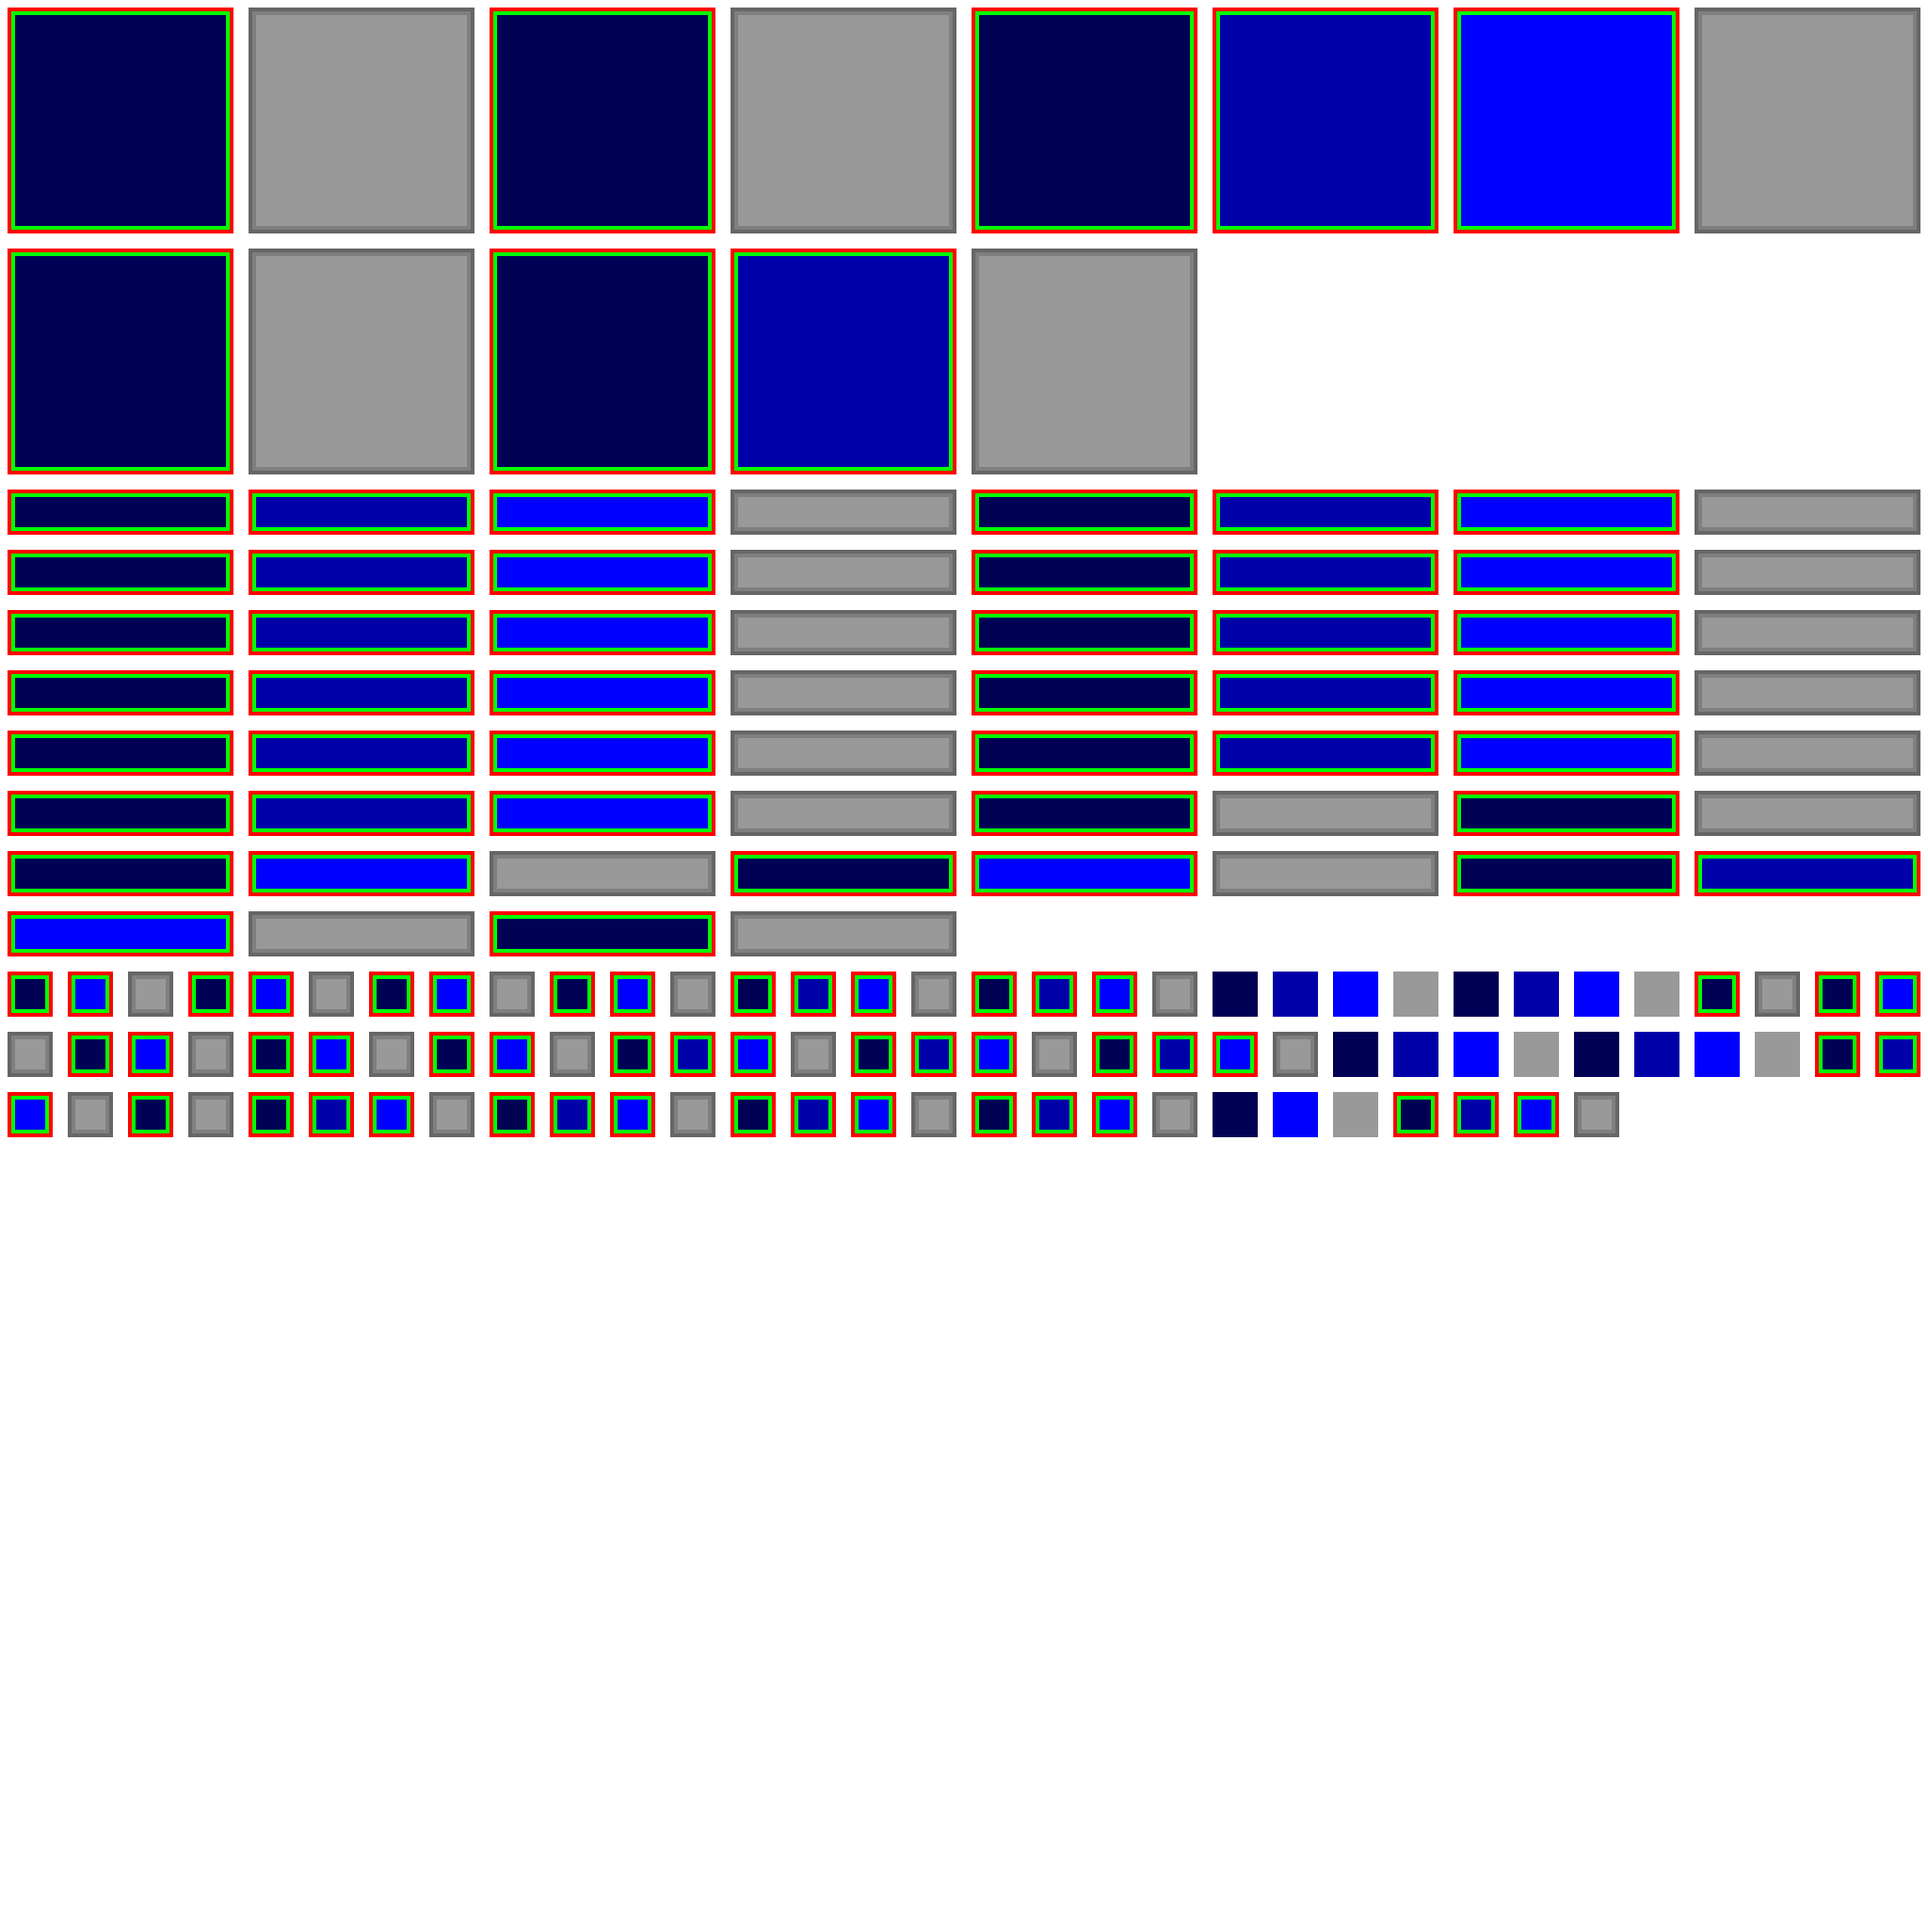
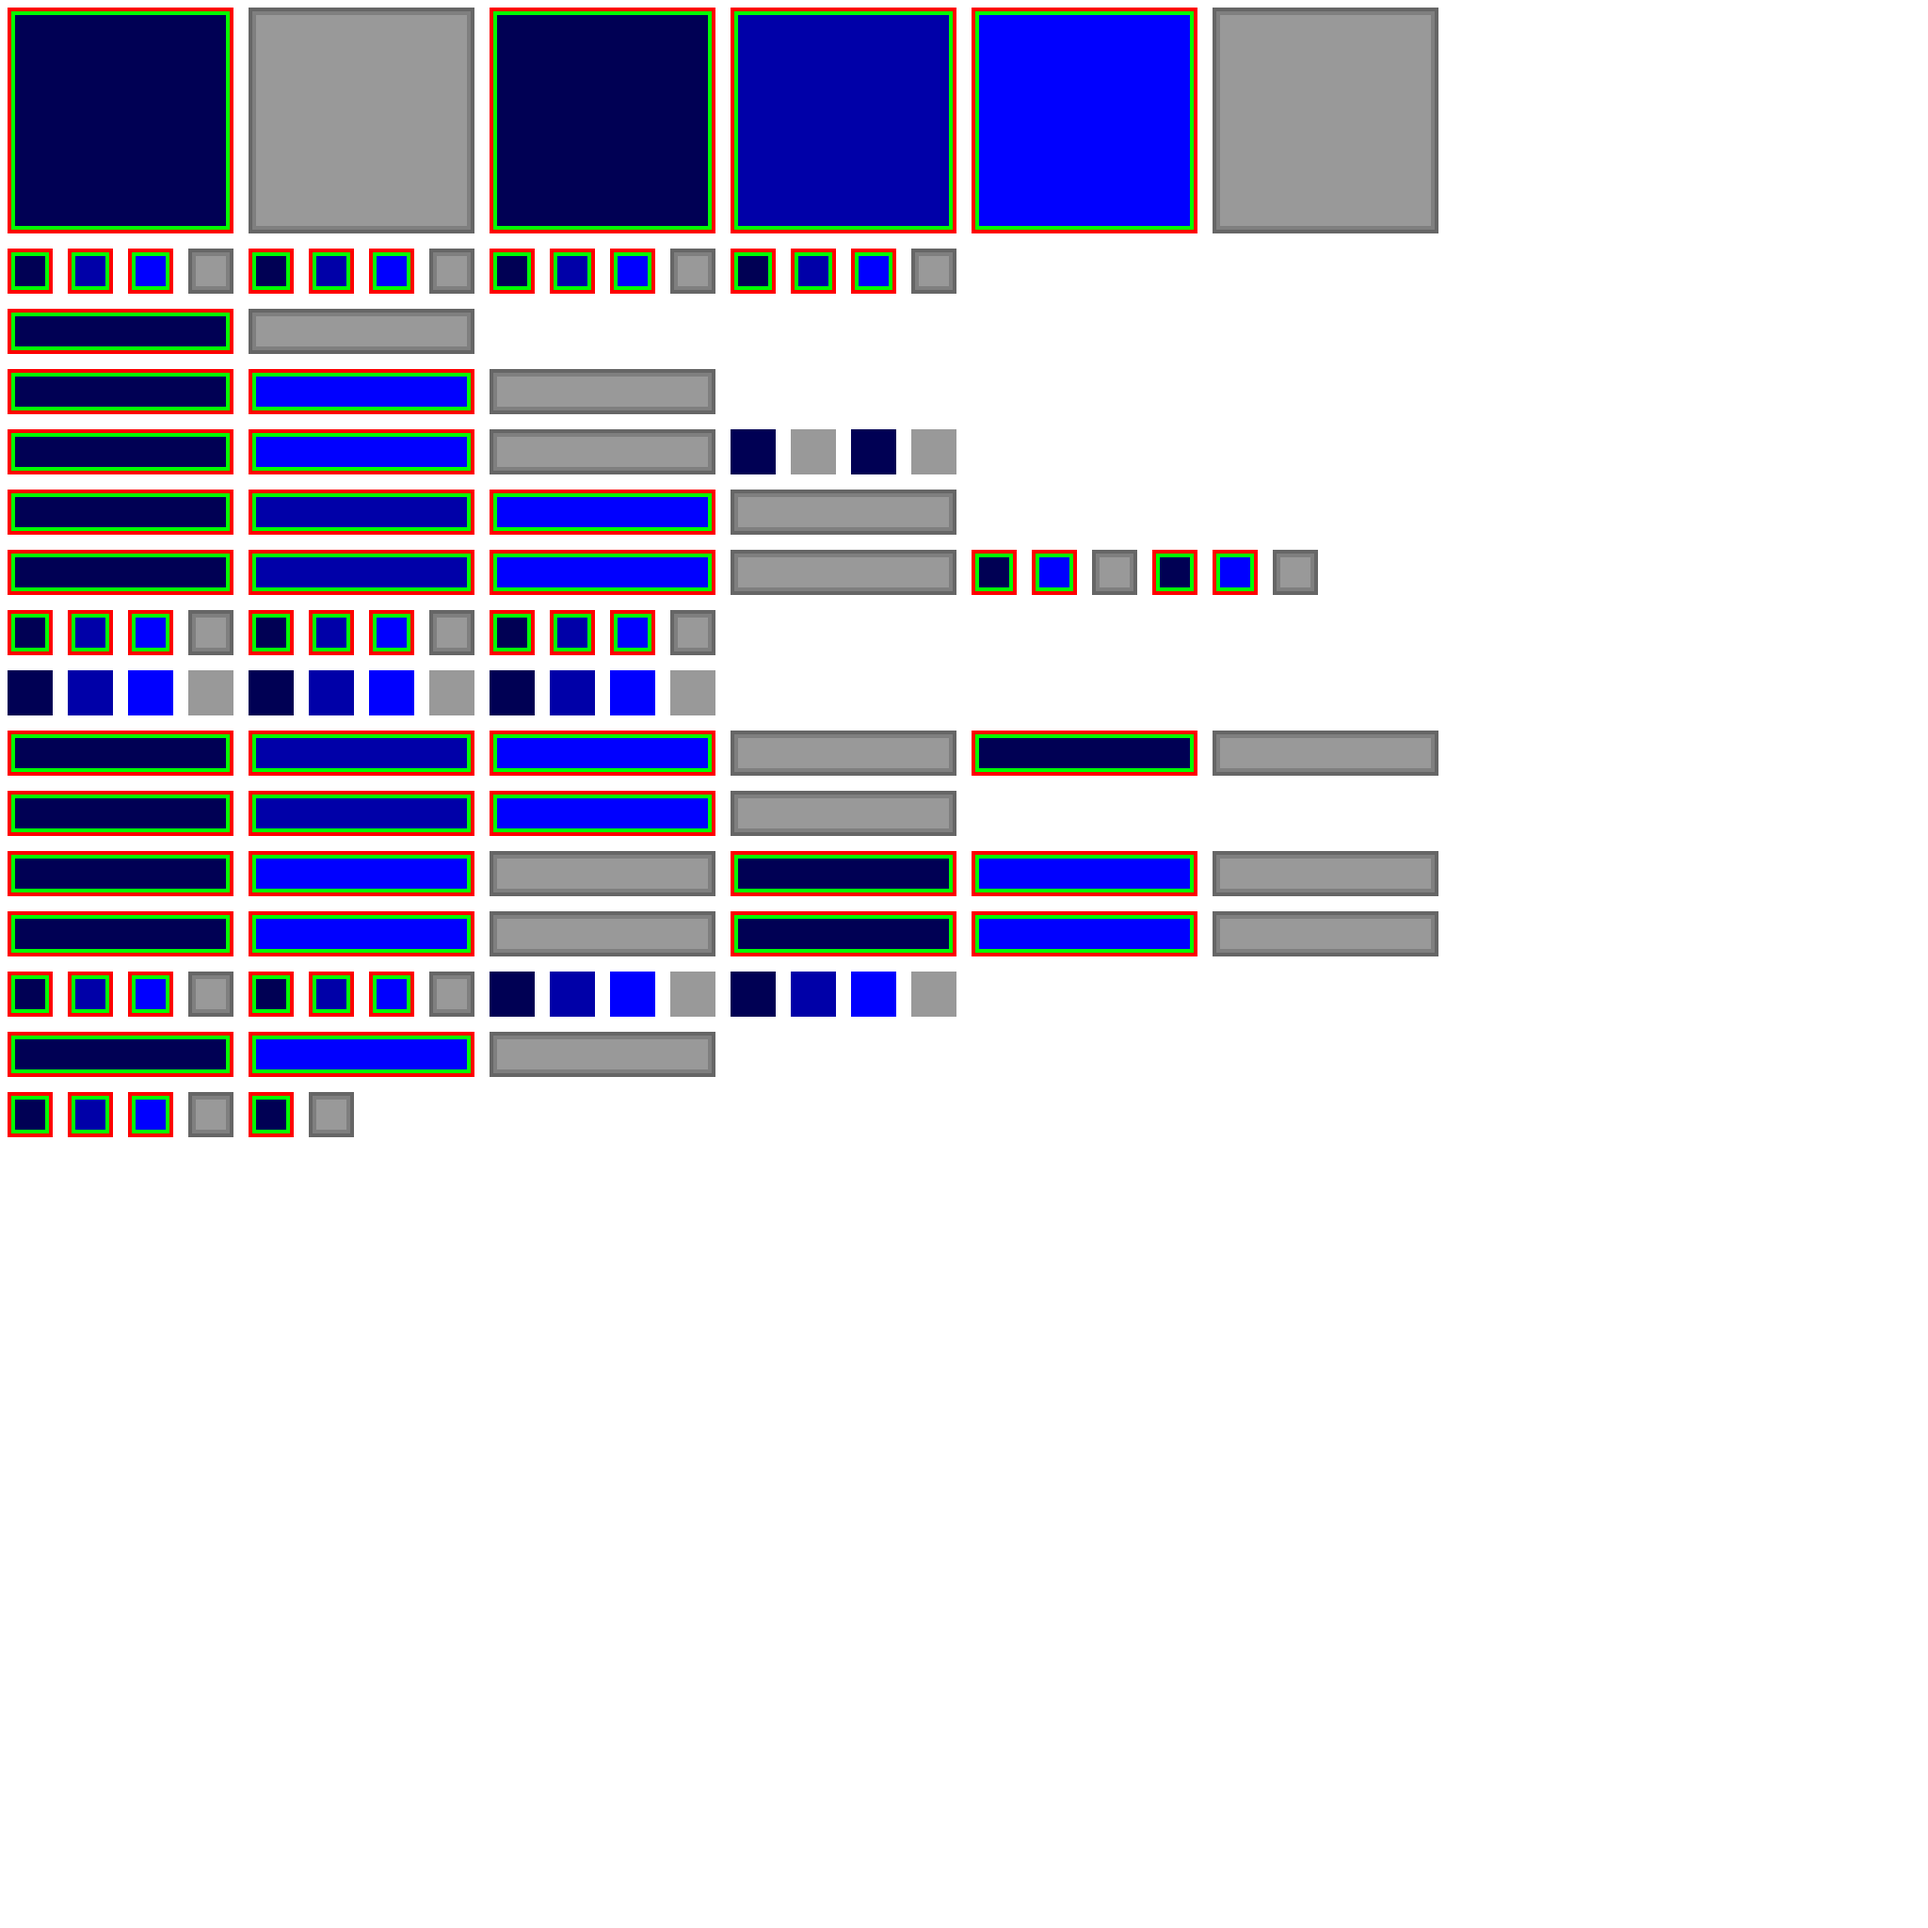
renew gui skin

Changed region(s): [[0.0, 0.0, 1.0, 0.4688], [0.0, 0.4688, 1.0, 0.5938]]

diff --git a/sources/gui/skins.cpp b/sources/gui/skins.cpp
@@ -27,6 +27,7 @@ public:
 		case 0: // margins
 			skin.defaults.button.margin = a4;
 			skin.defaults.checkBox.margin = a4;
+			skin.defaults.radioBox.margin = a4;
 			skin.defaults.colorPicker.margin = a4;
 			skin.defaults.comboBox.baseMargin = a4;
 			skin.defaults.panel.baseMargin = a4;
@@ -77,6 +78,7 @@ public:
 				"margins",
 				"borders",
 				"paddings",
+				"none",
 			};
 			for (uint32 i = 0; i < sizeof(options)/sizeof(options[0]); i++)
 			{
@@ -154,6 +156,9 @@ public:
 				p.order = index++;
 				GUI_GET_COMPONENT(input, input, e);
 				input.type = inputTypeEnum::Real;
+				input.min.f = -5;
+				input.max.f = 5;
+				input.step.f = 0.1;
 				GUI_GET_COMPONENT(text, text, e);
 				text.value = "real input box";
 			}
@@ -165,6 +170,15 @@ public:
 				GUI_GET_COMPONENT(checkBox, box, e);
 				GUI_GET_COMPONENT(text, text, e);
 				text.value = "checkbox";
+			}
+			{ // radiobox
+				entityClass *e = ents->createUnique();
+				GUI_GET_COMPONENT(parent, p, e);
+				p.parent = side;
+				p.order = index++;
+				GUI_GET_COMPONENT(radioBox, box, e);
+				GUI_GET_COMPONENT(text, text, e);
+				text.value = "radiobox";
 			}
 			{ // combo box
 				entityClass *e = ents->createUnique();

diff --git a/sources/gui/widgets/sliderBar.cpp b/sources/gui/widgets/sliderBar.cpp
@@ -3,6 +3,18 @@
 class guiTestImpl : public guiTestClass
 {
 
+	entityClass *envelopeInScrollbars(entityClass *e)
+	{
+		entityClass *r = gui()->entities()->createUnique();
+		GUI_GET_COMPONENT(parent, pr, r);
+		GUI_GET_COMPONENT(parent, pe, e);
+		pr = pe;
+		pe.parent = r->name();
+		pe.order = 0;
+		GUI_GET_COMPONENT(scrollbars, sc, r);
+		return r;
+	}
+
 	void initialize() override
 	{
 		entityManagerClass *ents = gui()->entities();
@@ -22,6 +34,7 @@ class guiTestImpl : public guiTestClass
 			p.parent = 3;
 			p.order = index++;
 			GUI_GET_COMPONENT(sliderBar, s, e);
+			envelopeInScrollbars(e);
 		}
 
 		{ // vertical
@@ -32,6 +45,7 @@ class guiTestImpl : public guiTestClass
 			p.order = index++;
 			GUI_GET_COMPONENT(sliderBar, s, e);
 			s.vertical = true;
+			envelopeInScrollbars(e);
 		}
 
 		{ // range
@@ -44,6 +58,7 @@ class guiTestImpl : public guiTestClass
 			s.min = 13;
 			s.max = 42;
 			s.value = 21;
+			envelopeInScrollbars(e);
 		}
 	}
 

diff --git a/sources/gui/widgets/button.cpp b/sources/gui/widgets/button.cpp
@@ -39,7 +39,7 @@ class guiTestImpl : public guiTestClass
 				p.parent = layout->name();
 				p.order = index++;
 				GUI_GET_COMPONENT(button, b, e);
-				b.allowMerging = true;
+				//b.allowMerging = true;
 				GUI_GET_COMPONENT(text, t, e);
 				t.value = i;
 			}
@@ -59,7 +59,7 @@ class guiTestImpl : public guiTestClass
 				p.parent = layout->name();
 				p.order = index++;
 				GUI_GET_COMPONENT(button, b, e);
-				b.allowMerging = true;
+				//b.allowMerging = true;
 				GUI_GET_COMPONENT(text, t, e);
 				t.value = i;
 			}
